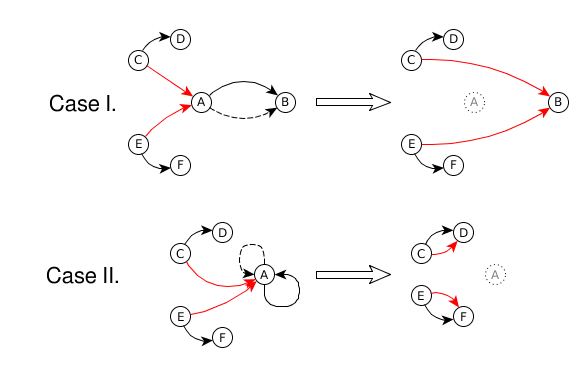
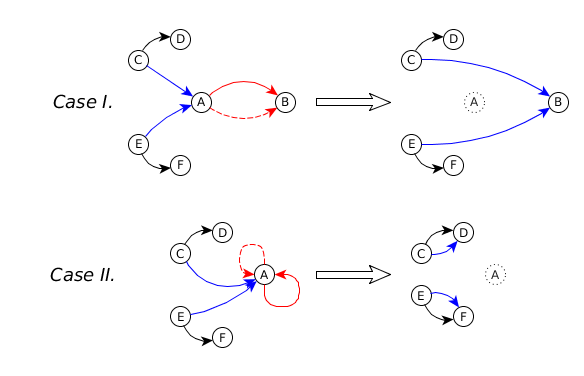
Add IRAD extension proposal attachment

diff --git a/doc/article/x_tnetaut.tex b/doc/article/x_tnetaut.tex
@@ -1,0 +1,299 @@
+\documentclass{tufte-handout}
+
+%\geometry{showframe}% for debugging purposes -- displays the margins
+
+\usepackage{amsmath}
+
+
+% Set up the images/graphics package
+\usepackage{graphicx}
+\setkeys{Gin}{width=\linewidth,totalheight=\textheight,keepaspectratio}
+\graphicspath{{graphics/}}
+
+
+% The following package makes prettier tables.  We're all about the bling!
+\usepackage{booktabs}
+
+% The units package provides nice, non-stacked fractions and better spacing
+% for units.
+\usepackage{units}
+
+% The fancyvrb package lets us customize the formatting of verbatim
+% environments.  We use a slightly smaller font.
+\usepackage{fancyvrb}
+\fvset{fontsize=\normalsize}
+
+% Set up the spacing using fontspec features
+\renewcommand\allcapsspacing[1]{{\addfontfeature{LetterSpace=15}#1}}
+\renewcommand\smallcapsspacing[1]{{\addfontfeature{LetterSpace=10}#1}}
+
+% Small sections of multiple columns
+\usepackage{multicol}
+
+% Provides paragraphs of dummy text
+\usepackage{lipsum}
+
+\usepackage{lettrine} % The lettrine is the first enlarged letter at the beginning of the text
+
+% These commands are used to pretty-print LaTeX commands
+\newcommand{\doccmd}[1]{\texttt{\textbackslash#1}}% command name -- adds backslash automatically
+\newcommand{\docopt}[1]{\ensuremath{\langle}\textrm{\textit{#1}}\ensuremath{\rangle}}% optional command argument
+\newcommand{\docarg}[1]{\textrm{\textit{#1}}}% (required) command argument
+\newenvironment{docspec}{\begin{quote}\noindent}{\end{quote}}% command specification environment
+\newcommand{\docenv}[1]{\textsf{#1}}% environment name
+\newcommand{\docpkg}[1]{\texttt{#1}}% package name
+\newcommand{\doccls}[1]{\texttt{#1}}% document class name
+\newcommand{\docclsopt}[1]{\texttt{#1}}% document class option name
+
+
+%%% Additions to template by DSL
+\usepackage{hyperref} % provides \url{}
+% remove separation between list items http://tex.stackexchange.com/a/10689/1783
+\usepackage{enumitem}
+\setlist{nosep}
+
+% RMF additions
+\usepackage{xcolor,colortbl}
+\definecolor{green}{rgb}{0.1,0.1,0.1}
+\newcommand{\grayout}{\cellcolor{lightgray}}
+\newcommand{\hcyan}[1]{{\color{teal} #1}}
+
+\usepackage{abraces}
+
+\usepackage{makecell}
+
+\usepackage{floatrow} % for side-by-side figures
+\usepackage{mwe}
+
+\title{"Machine C" Family of Graph Automata}
+\author{Richard Foard}
+\date{31 October 2018}  % if the \date{} command is left out, the current date will be used
+\begin{document}
+
+\maketitle% this prints the handout title, author, and date
+\marginnote{\textsc{Contact:\\
+Richard Foard\\
+email: richard.foard@gtri.gatech.edu\\
+phone: 404-281-3487
+}}
+
+\begin{abstract}
+\noindent (Following is an excerpt from the project report. It gives a detailed
+description of the abstract machines that were simulated and analyzed in the project.)
+\end{abstract}
+
+\section{Methods}
+
+Two similar rule-based automata, \textbf{Machine C} and \textbf{Machine CM}, were designed
+and implemented in simulation. The simulators were run repeatedly, using rules
+selected at random from a large universe of possibilities. Measurements were recorded as the graphs
+evolved through each run. The resulting database accumulated data on many thousands of runs. The body of data
+was analyzed macroscopically, using aggregate statistics, and microscopically, by inspecting
+statistical and graphic snapshots from individual runs.
+
+\begin{marginfigure}
+\hspace{3em}
+\includegraphics[width=2.5cm]{evol2a_0.ps}
+\end{marginfigure}
+
+\begin{marginfigure}
+\hspace{3em}
+\includegraphics[width=2.5cm]{evol2a_1.ps}
+\end{marginfigure}
+
+\begin{marginfigure}
+\hspace{3em}
+\includegraphics[width=2.5cm]{evol2a_4.ps}
+\caption{Three iterations of machine \textbf{C}, rule 509914832650994,
+beginning with a randomly generated 32-node graph and terminating in a
+static configuration.}
+\end{marginfigure}
+
+Each simulation run begins with a randomly generated graph and progresses by
+iteratively modifying its edges and node states; changes are made according to a rule selected
+for the run. Each rule is effectively a simple program  that specifies, based on the state
+of each node and its neighbors, how local changes should be applied during an
+iteration.
+
+\subsection{Graph Composition}
+
+Nodes may be in one of two states: \textit{black} or \textit{white}.
+Graph topology is restricted in order to simplify rule design. For the
+\textbf{CM} machine:
+
+\vspace{1mm}
+\begin{itemize}
+\setlength{\itemindent}{2em}
+    \item Edges are directed.
+    \item Nodes have out-degree of exactly two.
+    \item "Self-linking" edges are permitted.
+\end{itemize}
+\vspace{2mm}
+The \textbf{C}  machine's graphs are more narrowly defined by adding the
+restriction:
+\begin{itemize} 
+\setlength{\itemindent}{2em}
+    \item Multiple, like-directed edges between two nodes are prohibited.
+\end{itemize}
+\vspace{2mm}
+
+\textbf{C} and \textbf{CM} machines operate using the same rule structures.
+A single rule is chosen for each run. Each execution
+begins on a graph that has been randomly generated
+to conform to its machine's topological restrictions. Both machines maintain conformance
+throughout the run. In applying some rules, \textbf{C} creates prohibited
+structures. When this occurs, a "pruning" process selectively
+removes nodes and edges to restore conformance before proceeding with the
+next iteration. The \textbf{CM} machine does not need this process because
+it is structurally incapable of altering its graph in a way thati violates its more
+relaxed structure restrictions. \textbf{CM} is otherwise identical to \textbf{C}.  
+
+An initial, random graph of N nodes is constructed by assigning each node
+a \textit{black} or \textit{white} state with equal likelihood.
+Two outbound edges are attached to each node, with
+the destination of each selected at random from all nodes. For \textbf{C} runs, the
+generator observes the constraint that the edges cannot share the same destination node.
+In all initial graphs, nodes have out-degree 2, but in-degree can vary from 0 to N.
+Initial graphs are a subset of the class of Erdos-Renyi random graphs (citation needed)
+\textit{G(n, p)} where \textit{n} is the number of nodes and \textit{p} is the probability
+that two nodes are connected by an edge. Because all graphs have fixed out-degree 2,
+the generation process creates random variation only in the nodes' in-degrees. As a result,
+each initial graph is a member of \textit{G(n, p)} where \textit{p} is a function
+of graph size \textit{n} (approximately \( 4 / (n - 1) \)).
+
+\subsection{Rule Structure and Application}
+
+At the start of each simulation run, a rule is selected and an initial graph
+is generated.  The simulation proceeds in a series of
+iterations. During each, the rule is applied at each node, yielding a draft
+version of a new graph. For machine \textbf{CM}, the draft immediately becomes
+the input for the next iteration. In \textbf{C}, the draft may require pruning
+before becoming input to the next iteration. 
+
+During an iteration, each node in the current graph is examined in turn.
+The combined \textit{black}/\textit{white} states of the node and its two neighbors\footnote{
+\textit{Black} is interpreted as zero, \textit{white} as one. In
+all cases, "neighbor" is used to indicate a node at the destination end of one of a node's out-edges.}
+are used to select one of the rule's eight constituent parts; the selected part, in turn,
+controls the changes that are made to the node's state and its out-edges in
+the developing draft copy. Rules encode change instructions as follows:
+
+A rule comprises eight parts, each corresponding to one of the possible compound, or "triad" states
+of a node and its neighbors. Each rule-part specifies replacement values for
+the node's state and the destinations of its out-edges
+(it is convenient to refer to a node's two out-edges as "left" and "right").
+The replacement node state is either \textit{black} (\textit{B}) or \textit{white} (\textit{W}).
+The replacement edge destinations (Figure \ref{fig:Sixlabeled}) are each one of:
+
+\vspace{1mm}
+\begin{itemize}
+\setlength{\itemindent}{2em}
+    \item \textit{L} - the node's current left-edge destination
+    \item \textit{R} - the node's current right-edge destination
+    \item \textit{LL} - the current destination of its left neighbor's left-edge
+    \item \textit{LR} - the current destination of its left neighbor's right-edge
+    \item \textit{RL} - the current destination of its right neighbor's left-edge
+    \item \textit{RR} - the current destination of its right neighbor's right-edge
+\end{itemize}
+\vspace{2mm}
+A rule might be represented symbolically as a set of triples
+(\textit{<new left-edge destination>},
+\textit{<new right-edge destination>},
+\textit{<new node state>}), for example:
+\[
+\aunderbrace[l1r]{(L,L,B)}_{0}\aunderbrace[l1r]{(R,RR,W)}_{1}\aunderbrace[l1r]{(L,R,W)}_{2}\aunderbrace[l1r]{(LL,R,B)}_{3}\aunderbrace[l1r]{(L,LL,B)}_{4}\aunderbrace[l1r]{(RL,RR,W)}_{5}\aunderbrace[l1r]{(RR,RR,B)}_{6}\aunderbrace[l1r]{(R,L,B)}_{7}
+\]
+in which each triple is a rule-part to be applied at nodes having a
+triad state equal to the part's index position in the rule string. For coding purposes, rule
+numbers are carried as mixed-radix integers between 0 and
+$(6 \times 6 \times 2)^8 = 722,204,136,308,736$.
+
+\begin{marginfigure}
+\vspace{-5mm}
+\hspace{-2em}
+\includegraphics[height=3cm]{sixlabeled.ps}
+\caption{The six possible new destinations for node \textbf{*}'s out-edges}
+\label{fig:Sixlabeled}
+\end{marginfigure}
+
+\vspace{1mm}
+After all nodes in the original graph have been processed,
+the resulting draft copy is pruned if necessary.
+Applicable only for machine \textbf{C}, the pruning step removes
+any like-directed edges (multi-edges) that have been created between pairs
+of nodes in the draft copy; the process, described in more detail below,
+selectively removes nodes and redirects edges, cascading as required,
+until no prohibited structures remain.
+If it is not empty, the pruned graph becomes the starting point for the next iteration;
+if it is empty, it is said to have collapsed.
+A simulation run ends when (1) the graph collapses, (2) a state cycle is detected,
+or (3) a maximum number of iterations is reached.
+
+\subsection{The \textbf{C*} Machines' Random Counterparts, \textbf{R} and \textbf{RM}}
+
+To help gauge the extent to which machines \textbf{C} and \textbf{CM}
+introduce order as they transform random starting graphs, simulators for counterpart
+machines \textbf{R} and \textbf{RM} were constructed. Like the rule-based \textbf{C} and
+\textbf{CM} (\textbf{C*}) machines, these change the graph iteratively, but make their
+changes \textit{randomly}.
+As with the \textbf{C*} machines, though, the scope of edge destination changes for each node is
+limited to nodes reachable in its "two-hop" neighborhood. (The random machines need not alter nodes' states
+because node states have no effect on the \textbf{R*} machines' actions).
+The \textbf{R} machine applies the same pruning process that \textbf{C} uses. As
+with \textbf{CM}, no pruning step is required in \textbf{RM} simulations because
+no prohibited structures can be generated by the \textbf{*M} machines.
+
+\begin{table}
+\caption{Machine Characteristics}
+\centering
+\begin{tabular}{lccc}
+\toprule
+Machine & New Edge Selection & Multi-edges & Pruning Performed \\
+\midrule
+\textbf{C} & \textit{Rule-based} & \textit{No} & \textit{Yes} \\
+\textbf{R} & \textit{Locally Random} & \textit{No} & \textit{Yes} \\
+\cmidrule(r){2-4}
+\textbf{CM} & \textit{Rule-based} & \textit{Yes} & \textit{No} \\
+\textbf{RM} & \textit{Locally Random} & \textit{Yes} & \textit{No} \\
+\bottomrule
+\end{tabular}
+\label{tab:Tab1}
+\end{table}
+\vspace{3mm}
+
+\subsection{Graph Pruning}
+
+Changes to out-edge destinations, whether made randomly by machine \textbf{R}, or based on \textbf{C}'s
+rules, can introduce multi-edges. These prohibited structures
+arise as the machine's iteration logic creates a first-pass, "draft" copy of the transformed graph.
+the draft copy is pruned to restore conformance with structure restrictions before
+the following iteration begins.
+The diagram in Figure \ref{fig:Pruning} shows the two kinds of prohibited structures
+that can occur and illustrates the restorative changes made in the pruning step.
+
+\begin{figure}
+\includegraphics{pruning.png}
+\caption{\textbf{Pruning.} Resolution methods for two variations of a (red) prohibited structure.
+In both cases, edges originating at node A are eliminated; edges in blue are redirected.
+Case II creates two case I-type structures that require further resolution.}
+\label{fig:Pruning}
+\end{figure}
+
+Both types of changes eliminate the node at which the offending edge pair
+originates (labeled "A" in the illustrations), along with the edge pair.
+In case I, all edges inbound to the eliminated node are redirected to 
+the destination (shown as node "B") of its to-be-eliminated edge pair.
+Redirected edges are shown in blue.
+
+Lacking such a natural new destination for the inbound edges in case II, the
+pruning process instead moves the problem "upstream"---any edge inbound to
+the eliminated node is redirected to the same destination node as that of
+its origin node's other out-edge. This, of course, immediately creates
+case I structure violations for all such origin nodes; these violations must also be
+resolved before the next iteration can begin.
+Case II resolutions \textit{always} create additional structure violations;
+case I resolutions may or may not. In either case, cascades can result. These
+cascades, and the resulting reductions in graph size, are common in both
+\textbf{C} and \textbf{R} simulations.
+
+\end{document}
